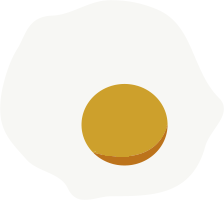
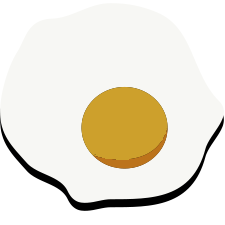
function added for adding images!

Changed region(s): [[0.3438, 0.36, 0.75, 0.84], [0.0, 0.51, 1.0, 0.96]]

diff --git a/CookBook.playgroundbook/Contents/Sources/ViewController.swift b/CookBook.playgroundbook/Contents/Sources/ViewController.swift
@@ -20,37 +20,51 @@ public class ViewController: UIViewController {
     let cheeseCake = ["crackers", "vanilla", "butter", "cream cheese", "sugar", "eggs"]
     
     let friedEgg = ["oil", "egg"]
+    let butterFriedEgg = ["butter", "egg"]
+    
+    
     
     override public func loadView() {
         let view = UIView()
+        let screenX = UIScreen.main.bounds.size.width
+        let screenY = UIScreen.main.bounds.size.height
         view.backgroundColor = .white
         
         let label = UILabel()
-        label.frame = CGRect(x: 150, y: 200, width: 200, height: 20)
+        label.frame = CGRect(x: screenX*0.2, y: screenY*0.6, width: 400, height: 100)
+        label.font = UIFont(name: "SinhalaSangamMN", size: 20)
         label.text = howTo
         label.textColor = .black
-        label.alpha = 0
+        label.alpha = 1
+        label.lineBreakMode = NSLineBreakMode.byWordWrapping
+        label.numberOfLines = 0
         
         //fried egg image
         let friedEggPng = "friedEgg.png"
         let friedEggImage = UIImage(named: friedEggPng)
-        let friedEggView = UIImageView(image: friedEggImage!)
-        friedEggView.alpha = 0
-        friedEggView.frame = CGRect(x: view.frame.midX, y: view.frame.midY, width: 224, height: 200)
-        view.addSubview(friedEggView)
+        
+        func foodPictures(currentImage: UIImage){
+            let foodImageView = UIImageView(image: currentImage)
+            foodImageView.alpha = 0
+            foodImageView.frame = CGRect(x: screenX*0.15,y: screenY*0.35, width: 224, height: 200)
+            view.addSubview(foodImageView)
+            UIView.animate(withDuration: 3) {
+                foodImageView.alpha = 1
+            }
+        }
         
         view.addSubview(label)
         self.view = view
         
         func cooking(){
-            if ingredients.containsSameElements(as: friedEgg) && howTo == "pan"{
+            if ingredients.containsSameElements(as: friedEgg) || ingredients.containsSameElements(as: butterFriedEgg) && howTo == "pan"{
                 view.backgroundColor = .yellow
                 label.textColor = .black
-                label.text = "Fried egg!"
+                label.text = "Congratulations, you've made a fried egg! Lets try more complex recipes now!"
+                //IMAGE
+                foodPictures(currentImage: friedEggImage!)
+                //ANIMATION
                 
-                UIView.animate(withDuration: 3) {
-                    friedEggView.alpha = 1
-                }
             }
             
             if ingredients.containsSameElements(as: lemonMousse) && howTo == "mix"{

diff --git a/CookBook.playgroundbook/Contents/Chapters/Chapter1.playgroundchapter/Pages/page2.playgroundpage/Contents.swift b/CookBook.playgroundbook/Contents/Chapters/Chapter1.playgroundchapter/Pages/page2.playgroundpage/Contents.swift
@@ -46,7 +46,8 @@ Here you add the ingredients
  */
 //#-hidden-code
 cook(recipe:[
-//#-code-completion(lemon, milk, egg, sugar, carrot, flour, salt, bakingPowder, oil, cream, margarine, creamCheese, crackers, vanilla)
+//#-code-completion(everything, hide)
+//#-code-completion(everything, show, lemon,milk,egg,sugar,carrot,flour, salt, bakingPowder, oil, cream, margarine, creamCheese, crackers,vanilla)
 //#-end-hidden-code
 //#-editable-code
 
@@ -58,7 +59,8 @@ cook(recipe:[
 Here you choose how your recipe will be built, the method used can alter the final result
  */
 //#-hidden-code
-//#-code-completion(bake, pan, mix)
+//#-code-completion(everything, hide)
+//#-code-completion(everything, bake, pan, mix)
 method(technique:
 //#-end-hidden-code
 //#-editable-code
